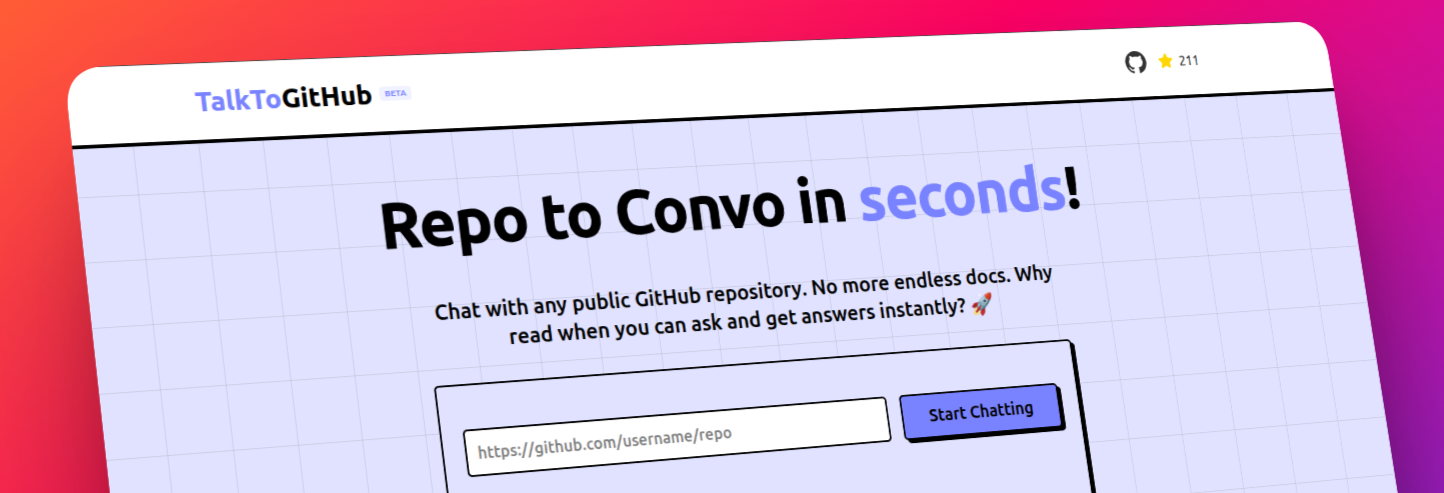
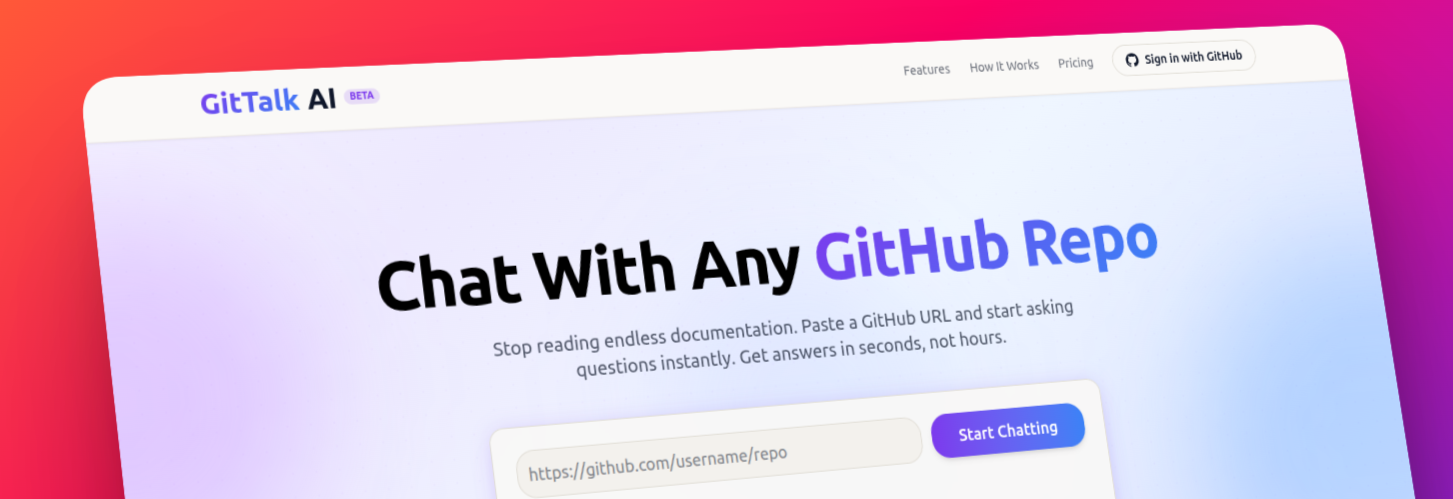
Updated GitTalk AI Project Image

diff --git a/lib/constants.ts b/lib/constants.ts
@@ -3,14 +3,14 @@ import { Project, SkillCategory, Achievement, SocialLink, Testimonial, Education
 export const PERSONAL_INFO = {
   name: "Atharva Jamdar",
   role: "Full Stack Developer",
-  roleSecondary: "Gen AI",
+  roleSecondary: "AI Engineer",
   location: "Pune, India",
   email: "[email redacted]",
   resume: "https://drive.google.com/file/d/12Nx9Imb5k6CWipLgnGrB4E6oFJOP8XeQ/view?usp=drive_link",
   terminalIntro: {
     cmd: "> npm run dev",
     response: "Initializing Project... Setup complete. Specializing in scalable full-stack architecture and AI integration.",
-    tagline: "Building scalable applications and AI-powered solutions that turn ideas into reality.",
+    tagline: "Building scalable applications and AI-powered solutions that turn complex problems into production-ready products. ",
     latency_humor: "O(1) complexity preferred"
   },
   aboutJson: {
@@ -26,7 +26,7 @@ export const ABOUT = {
   bioParagraphs: [
     "I'm a *Full-Stack* *Developer* and *AI* *Engineer* passionate about creating scalable, intelligent applications that solve real-world problems.",
     "My expertise lies in combining modern web technologies with *Generative* *AI* and *Agentic* *AI* to build intelligent, reliable, and user-focused solutions.",
-    "I enjoy designing end-to-end systems — from concept to implementation — that integrate *LLMs*, *automation*, and *modern* *web* *architectures* to create meaningful impact."
+    "I enjoy designing end-to-end systems from concept to implementation that integrate *LLMs*, *automation*, and *modern* *web* *architectures* to create meaningful impact."
   ]
 };
 
@@ -123,6 +123,68 @@ export const PROJECTS: Project[] = [
         "Add barcode/QR scanning support for faster billing",
         "Integrate AI-based demand forecasting for inventory",
         "Build mobile companion app for branch managers"
+      ]
+    }
+  },{
+    title: "GitTalk AI",
+    slug: "gitTalk-ai",
+    date: "Oct 2025",
+    description: [
+      "Built a GenAI-powered developer tool to solve the challenge of understanding large and unfamiliar GitHub codebases by enabling conversational interaction with any repository.",
+      "Engineered Retrieval-Augmented Generation (RAG) pipelines using LangChain, vector search, and Gemini API to generate contextual code explanations, summaries, and architectural insights.",
+      "Developed a high-performance frontend and backend that automates repository analysis, reducing developer onboarding time by approximately 50% through conversational code exploration."
+    ],
+    tech: ["React", "FastAPI", "LangChain", "Gemini API"],
+    links: {
+      demo: "NA",
+      code: "NA"
+    },
+    featured: true,
+    status: "building",
+    image: "/talk-to-github.png",
+    details: {
+      overview: "GitTalk AI is a GenAI-powered developer tool that lets you have natural conversations with any GitHub repository. Instead of manually reading through thousands of files, you can ask questions about the codebase and get contextual explanations, architectural summaries, and code insights powered by RAG pipelines with LangChain and Gemini API.",
+      whyBuilt: [
+        "Onboarding onto large, unfamiliar codebases is one of the most time-consuming tasks for developers.",
+        "Reading documentation (when it exists) is often outdated or incomplete.",
+        "Wanted to build a practical GenAI tool that solves a real developer pain point.",
+        "Great opportunity to implement production-grade RAG pipelines with vector search."
+      ],
+      features: [
+        "Conversational interface to ask questions about any GitHub repository",
+        "RAG-powered code explanations with source references",
+        "Automated repository cloning, parsing, and embedding generation",
+        "Architectural overview and dependency analysis",
+        "Support for multiple programming languages",
+        "Context-aware follow-up questions"
+      ],
+      techCategories: [
+        { name: "Frontend", items: ["React", "Tailwind CSS"] },
+        { name: "Backend", items: ["FastAPI", "Python"] },
+        { name: "AI/ML", items: ["LangChain", "Gemini API", "RAG Pipelines"] },
+        { name: "Database", items: ["Vector DB", "Embeddings"] }
+      ],
+      challenges: [
+        {
+          title: "Challenge: Handling Large Repositories Efficiently",
+          description: "Large repos with thousands of files can overwhelm the embedding pipeline. Implemented intelligent file filtering, chunking strategies, and incremental indexing to handle repos of any size within reasonable time and cost constraints."
+        },
+        {
+          title: "Challenge: Maintaining Context Across Conversations",
+          description: "Users ask follow-up questions that reference previous answers. Built a conversation memory system with LangChain that maintains context while staying within token limits through intelligent summarization."
+        }
+      ],
+      impact: [
+        "Reduces developer onboarding time by approximately 50%",
+        "Enables instant codebase understanding without reading every file",
+        "Demonstrates practical application of RAG in developer tooling",
+        "Built a reusable RAG pipeline applicable to other knowledge bases"
+      ],
+      futurePlans: [
+        "Add support for private repositories with GitHub OAuth",
+        "Implement code generation and PR suggestions",
+        "Add multi-repo comparison and architecture diffing",
+        "Deploy as a public SaaS tool"
       ]
     }
   },
@@ -243,69 +305,6 @@ export const PROJECTS: Project[] = [
         "Migrate to a modern React frontend with better UX",
         "Implement deep learning-based recommendations for improved accuracy",
         "Add real-time A/B testing for recommendation strategies"
-      ]
-    }
-  },
-  {
-    title: "TalkToGitHub",
-    slug: "talk-to-github",
-    date: "Oct 2025",
-    description: [
-      "Built a GenAI-powered developer tool to solve the challenge of understanding large and unfamiliar GitHub codebases by enabling conversational interaction with any repository.",
-      "Engineered Retrieval-Augmented Generation (RAG) pipelines using LangChain, vector search, and Gemini API to generate contextual code explanations, summaries, and architectural insights.",
-      "Developed a high-performance frontend and backend that automates repository analysis, reducing developer onboarding time by approximately 50% through conversational code exploration."
-    ],
-    tech: ["React", "FastAPI", "LangChain", "Gemini API"],
-    links: {
-      demo: "NA",
-      code: "NA"
-    },
-    featured: true,
-    status: "building",
-    image: "/talk-to-github.png",
-    details: {
-      overview: "TalkToGitHub is a GenAI-powered developer tool that lets you have natural conversations with any GitHub repository. Instead of manually reading through thousands of files, you can ask questions about the codebase and get contextual explanations, architectural summaries, and code insights powered by RAG pipelines with LangChain and Gemini API.",
-      whyBuilt: [
-        "Onboarding onto large, unfamiliar codebases is one of the most time-consuming tasks for developers.",
-        "Reading documentation (when it exists) is often outdated or incomplete.",
-        "Wanted to build a practical GenAI tool that solves a real developer pain point.",
-        "Great opportunity to implement production-grade RAG pipelines with vector search."
-      ],
-      features: [
-        "Conversational interface to ask questions about any GitHub repository",
-        "RAG-powered code explanations with source references",
-        "Automated repository cloning, parsing, and embedding generation",
-        "Architectural overview and dependency analysis",
-        "Support for multiple programming languages",
-        "Context-aware follow-up questions"
-      ],
-      techCategories: [
-        { name: "Frontend", items: ["React", "Tailwind CSS"] },
-        { name: "Backend", items: ["FastAPI", "Python"] },
-        { name: "AI/ML", items: ["LangChain", "Gemini API", "RAG Pipelines"] },
-        { name: "Database", items: ["Vector DB", "Embeddings"] }
-      ],
-      challenges: [
-        {
-          title: "Challenge: Handling Large Repositories Efficiently",
-          description: "Large repos with thousands of files can overwhelm the embedding pipeline. Implemented intelligent file filtering, chunking strategies, and incremental indexing to handle repos of any size within reasonable time and cost constraints."
-        },
-        {
-          title: "Challenge: Maintaining Context Across Conversations",
-          description: "Users ask follow-up questions that reference previous answers. Built a conversation memory system with LangChain that maintains context while staying within token limits through intelligent summarization."
-        }
-      ],
-      impact: [
-        "Reduces developer onboarding time by approximately 50%",
-        "Enables instant codebase understanding without reading every file",
-        "Demonstrates practical application of RAG in developer tooling",
-        "Built a reusable RAG pipeline applicable to other knowledge bases"
-      ],
-      futurePlans: [
-        "Add support for private repositories with GitHub OAuth",
-        "Implement code generation and PR suggestions",
-        "Add multi-repo comparison and architecture diffing",
-        "Deploy as a public SaaS tool"
       ]
     }
   },
@@ -446,13 +445,13 @@ export const EXPERIENCE: Experience[] = [
     location: "Pune, India",
     type: "Full-time",
     current: true,
-    logo: "/iq-logo.png", // Add your company logo to public folder
+    logo: "/iq-logo.png", 
     links: {
       website: "https://www.iqinnovationhub.com/",
       linkedin: "https://linkedin.com/company/iqinnovationhub"
     },
     description: [
-      "Designed and developed Spring Boot backend services for a large-scale insurance aggregation platform for a German client, integrating with 5+ external insurance provider APIs for real-time premium calculation and comparison.",
+      "Designed and developed Spring Boot backend services for a large-scale insurance aggregation platform for a German client, integrating with 10+ external insurance provider APIs for real-time premium calculation and comparison.",
       "Implemented REST, gRPC, and GraphQL APIs supporting client-facing, inter-service, and aggregation communication patterns for faster and more flexible data access.",
       "Optimized backend architecture and request flow, reducing end-to-end API response time from 10,000 ms to 172 ms (98% latency reduction).",
       "Enforced rate limiting and fault-tolerance mechanisms, reducing downstream API failures by 70% during peak traffic.",